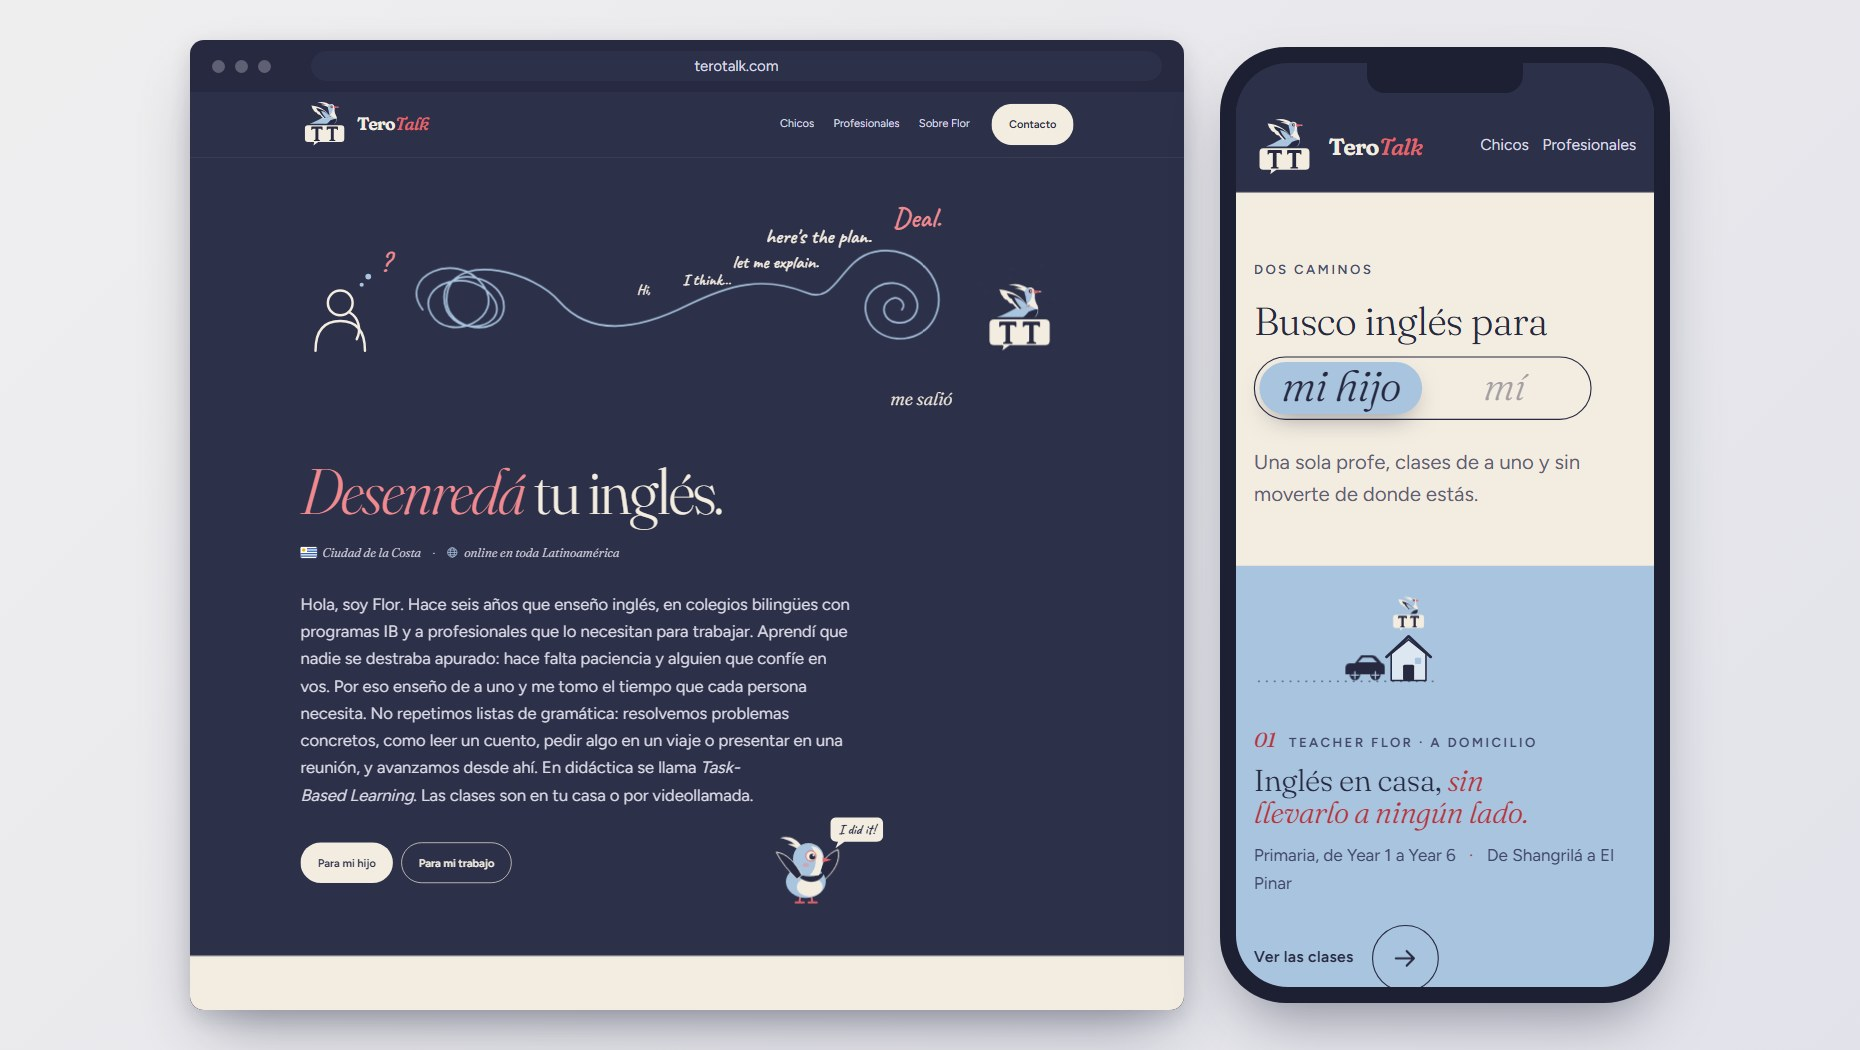
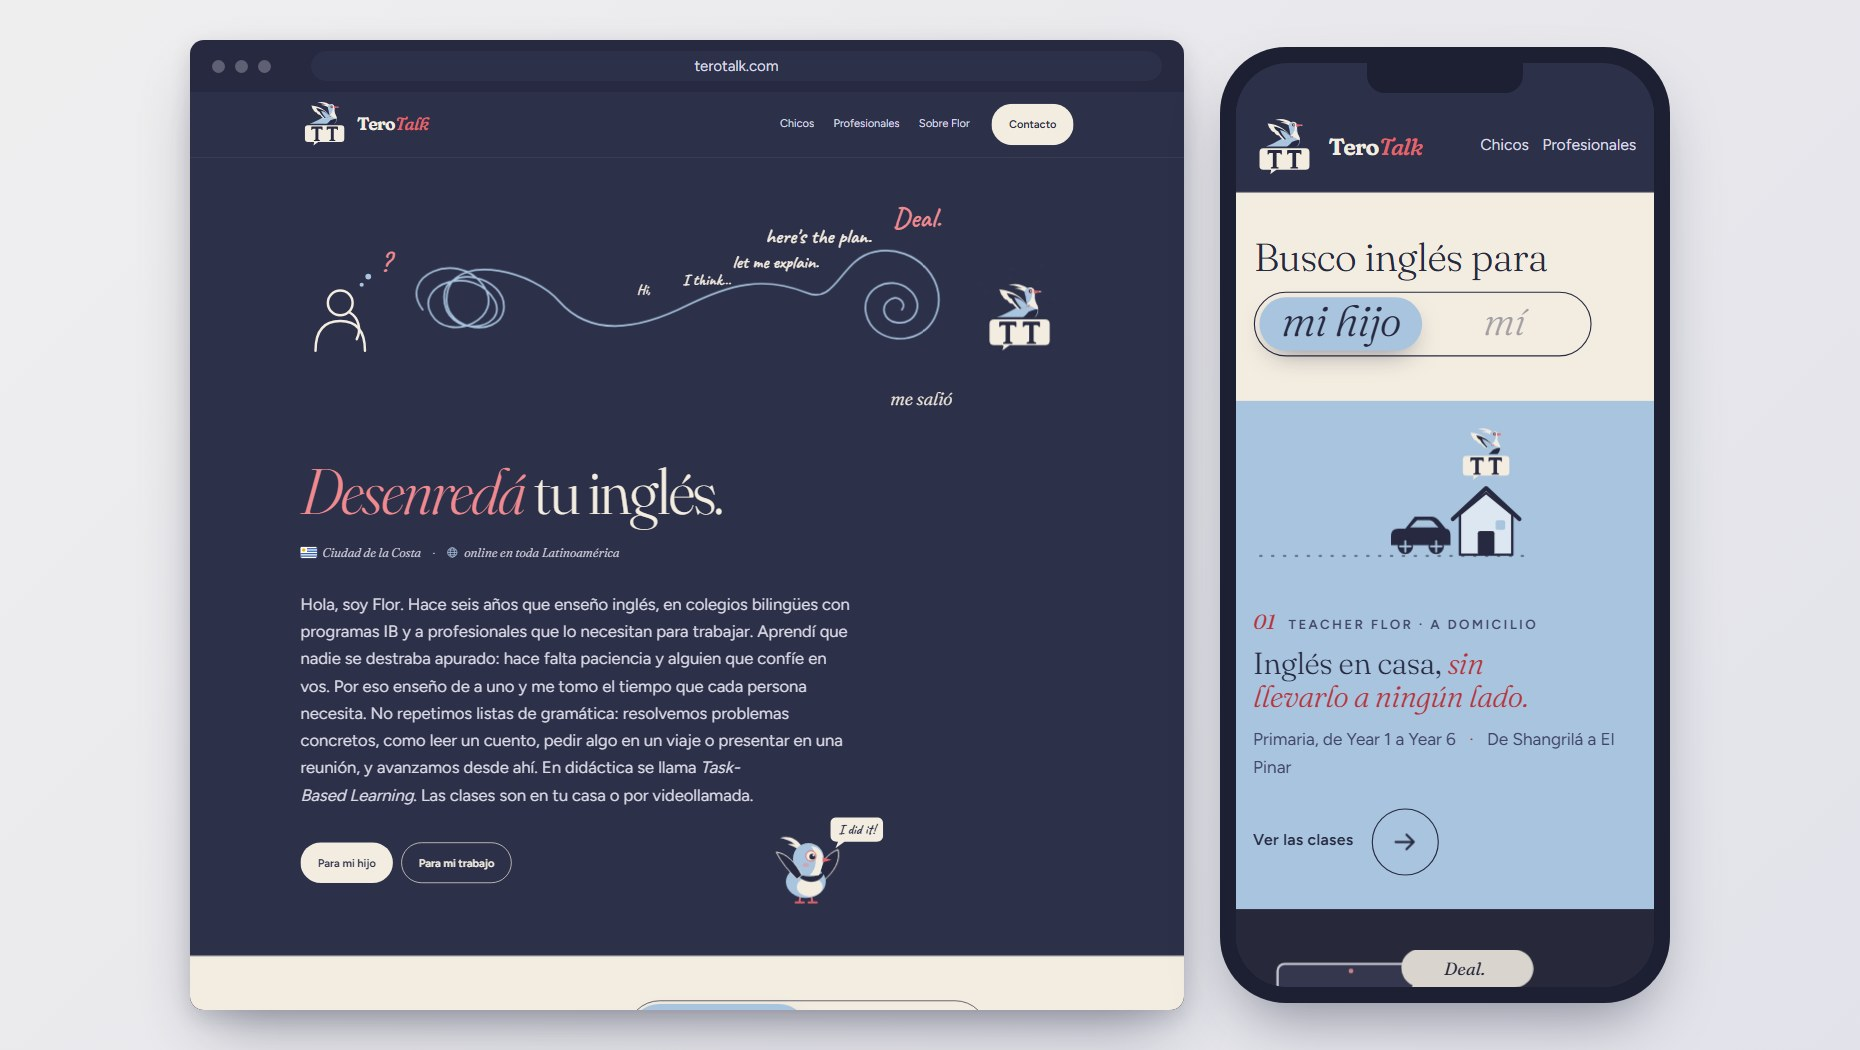
feat(home): picker drives strips, larger scenes, shorter head

diff --git a/assets/css/components.css b/assets/css/components.css
@@ -228,15 +228,14 @@
   .hero-anim__transient{display:none}
 }
 
-/* Two paths. The heading is a question the visitor answers: two pills, each in its strip's
-   colours, finish the sentence and go straight to the page. Below, one full-width strip per
+/* Two paths. The heading is a question the visitor answers: a segmented picker, each option in
+   its strip's colours, finishes the sentence and go straight to the page. Below, one full-width strip per
    service, each with a small scene on the hero's 11 s clock: Flor's car reaches the house and
    the tero lands; on the call, the bubble goes from "Hi," to "Deal." as the voice grows. */
 .paths{padding:0;border-bottom:0;background:none}
-.paths__head{padding-block:var(--space-24) var(--space-16);background:var(--color-surface)}
-.paths__ask{display:flex;flex-wrap:wrap;align-items:center;gap:var(--space-3) var(--space-5);margin-top:var(--space-4)}
+.paths__head{padding-block:var(--space-16) var(--space-12);background:var(--color-surface)}
+.paths__ask{display:flex;flex-wrap:wrap;align-items:center;gap:var(--space-3) var(--space-5)}
 .paths__title,.picker{font-size:clamp(2.2rem,5.4vw,4rem)}
-.paths__text{margin-top:var(--space-6);max-width:var(--measure);font-size:var(--text-lg);color:var(--color-text-muted)}
 
 /* Segmented picker: one option is always the active one — lit in its strip's colours and
    larger — while the other waits in grey. "mi hijo" is active at rest; hovering or focusing
@@ -247,10 +246,10 @@
 .picker__face{padding:.08em .7em .16em;text-align:center;white-space:nowrap;pointer-events:none;transition:transform .45s cubic-bezier(.2,.8,.2,1),color .3s ease,opacity .3s ease}
 .picker__option--kids .picker__face{color:var(--picker-on);transform:scale(1.1)}
 .picker__option--work .picker__face{color:var(--color-text-muted);opacity:.55}
-.picker:has(.picker__option--work:is(:hover,:focus-visible)){--picker-thumb:var(--navy-900);--picker-on:var(--sand-100)}
-.picker:has(.picker__option--work:is(:hover,:focus-visible)) .picker__thumb{transform:translateX(100%)}
-.picker:has(.picker__option--work:is(:hover,:focus-visible)) .picker__option--kids .picker__face{color:var(--color-text-muted);opacity:.55;transform:none}
-.picker:has(.picker__option--work:is(:hover,:focus-visible)) .picker__option--work .picker__face{color:var(--picker-on);opacity:1;transform:scale(1.1)}
+.paths:has(.picker__option--work:is(:hover,:focus-visible),.path--work:is(:hover,:focus-visible)) .picker{--picker-thumb:var(--navy-900);--picker-on:var(--sand-100)}
+.paths:has(.picker__option--work:is(:hover,:focus-visible),.path--work:is(:hover,:focus-visible)) .picker__thumb{transform:translateX(100%)}
+.paths:has(.picker__option--work:is(:hover,:focus-visible),.path--work:is(:hover,:focus-visible)) .picker__option--kids .picker__face{color:var(--color-text-muted);opacity:.55;transform:none}
+.paths:has(.picker__option--work:is(:hover,:focus-visible),.path--work:is(:hover,:focus-visible)) .picker__option--work .picker__face{color:var(--picker-on);opacity:1;transform:scale(1.1)}
 
 .path{position:relative;isolation:isolate;display:block;overflow:hidden;background:var(--color-surface);color:var(--color-text);--color-logo-gap:var(--color-surface)}
 .path::before{content:"";position:absolute;inset:0;z-index:-1;background:var(--color-surface-raised);clip-path:inset(0 100% 0 0);transition:clip-path .6s cubic-bezier(.2,.8,.2,1)}
@@ -262,7 +261,17 @@
 .path:focus-visible{outline-offset:-6px}
 .path--kids{--color-surface:var(--blue-300);--color-surface-raised:var(--blue-200);--color-text:var(--navy-900);--color-text-muted:var(--navy-600);--color-accent:var(--red-600);--color-brand:var(--navy-600)}
 .path--work{--color-surface:var(--navy-900);--color-surface-raised:var(--navy-700);--color-text:var(--sand-100);--color-text-muted:var(--lilac-200);--color-accent:var(--red-200);--color-on-accent:var(--navy-900);--color-brand:var(--blue-300)}
-.path__inner{display:grid;grid-template-columns:220px 1fr auto;align-items:center;gap:var(--space-12);padding-block:var(--space-8)}
+.path__inner{display:grid;grid-template-columns:330px 1fr auto;align-items:center;gap:var(--space-10);padding-block:var(--space-8)}
+/* The active path is the one the picker shows: it grows a touch and the other goes grey.
+   Hover devices only — on touch nothing hovers, and a grey strip would read as disabled. */
+@media (hover:hover){
+  .path{transition:filter .45s ease}
+  .path__inner{transition:transform .45s cubic-bezier(.2,.8,.2,1),opacity .45s ease}
+  .path--kids .path__inner,.paths:has(.picker__option--work:is(:hover,:focus-visible),.path--work:is(:hover,:focus-visible)) .path--work .path__inner{opacity:1;transform:scale(1.05)}
+  .path--work,.paths:has(.picker__option--work:is(:hover,:focus-visible),.path--work:is(:hover,:focus-visible)) .path--kids{filter:grayscale(1)}
+  .path--work .path__inner,.paths:has(.picker__option--work:is(:hover,:focus-visible),.path--work:is(:hover,:focus-visible)) .path--kids .path__inner{opacity:.55;transform:none}
+  .paths:has(.picker__option--work:is(:hover,:focus-visible),.path--work:is(:hover,:focus-visible)) .path--work{filter:none}
+}
 .path__art{width:100%;height:auto;overflow:visible;transition:transform .3s ease}
 .path:hover .path__art{transform:translateY(-3px)}
 .path__label{display:flex;align-items:baseline;gap:var(--space-3);font-size:var(--text-xs);font-weight:600;letter-spacing:var(--tracking-wide);text-transform:uppercase;color:var(--color-brand)}
@@ -321,15 +330,15 @@
 @keyframes call-deal{0%,40%{opacity:0;transform:scale(.6)}43%{opacity:1;transform:scale(1.15)}45%,88%{opacity:1;transform:none}90%,100%{opacity:0}}
 
 @media (max-width:900px){
-  .paths__head{padding-block:var(--space-18) var(--space-14)}
-  .path__inner{grid-template-columns:170px 1fr;gap:var(--space-6) var(--space-8)}
+  .paths__head{padding-block:var(--space-14) var(--space-10)}
+  .path__inner{grid-template-columns:255px 1fr;gap:var(--space-6) var(--space-8)}
   .path__go{grid-column:2;justify-self:start}
 }
 
 @media (max-width:640px){
-  .paths__head{padding-block:var(--space-16) var(--space-12)}
+  .paths__head{padding-block:var(--space-12) var(--space-10)}
   .path__inner{grid-template-columns:1fr;padding-block:var(--space-8)}
-  .path__art{width:170px}
+  .path__art{width:255px}
   .path__go-ring{width:60px;height:60px}
   .path__go{grid-column:auto}
 }

diff --git a/index.html b/index.html
@@ -92,7 +92,6 @@
 <section class="band band--soft paths" aria-labelledby="paths-title">
   <div class="paths__head">
     <div class="wrap">
-      <span class="eyebrow">Dos caminos</span>
       <div class="paths__ask">
         <h2 class="paths__title" id="paths-title">Busco inglés para</h2>
         <nav class="picker" aria-label="Para quién es el inglés">
@@ -101,7 +100,6 @@
           <a class="picker__option picker__option--work" href="professionals/"><span class="picker__face">mí</span></a>
         </nav>
       </div>
-      <p class="paths__text">Una sola profe, clases de a uno y sin moverte de donde estás.</p>
     </div>
   </div>
   <a class="path path--kids" href="kids/">

diff --git a/CLAUDE.md b/CLAUDE.md
@@ -42,7 +42,8 @@ The home page (`/`) carries the shared brand and acts as a **splitter**: it
 establishes who Flor is, then sends each visitor down one of two paths. The
 section is a sentence the visitor finishes — *Busco inglés para (mi hijo | mí)*, a segmented
 pill whose active option takes the colours of its strip — followed by one full-width strip per service: one headline,
-one line of facts, and an arrow in a ring instead of a button. No cards, no bullet lists, no
+one line of facts, a scene, and an arrow in a ring instead of a button. No eyebrow, no sub-line: the
+question is the whole head, kept short. No cards, no bullet lists, no
 pitch; the selling happens on the service page. A visitor
 should reach the right page in one click and never see the other offer's pricing or
 objections.
@@ -215,8 +216,11 @@ Base size 17px (16px under 640px), line-height 1.6, measure capped at 58–64ch.
   in `components.css`) run on the hero's 11 s clock. The picker never moves on its own — a
   selector that changes by itself reads as broken. It is a segmented control: one option is
   always active — on a thumb in its strip's colours, 10 % larger — and the other sits in grey.
-  *mi hijo* is active at rest; hovering or focusing *mí* slides the thumb across and turns it
-  navy, and the matching strip sweeps. The ring arrow nudges forward
+  *mi hijo* is active at rest; hovering or focusing *mí* (or the work strip) slides the thumb
+  across and turns it navy, and the matching strip sweeps. The picker drives the strips: the
+  active one scales its content to 105 % and the other goes grayscale at 55 % opacity. That
+  runs only under `(hover:hover)` — on touch nothing hovers and a grey strip reads as disabled.
+  The scenes sit in a 330px column (255px at 900px and 640px). The ring arrow nudges forward
   at 45 %, when the tero lands; on hover the ring fills with the accent and the arrow passes
   through and comes back. The kids scene: Flor's car drives to the house (3–38 %) and the tero lands on the roof
   at 42 %, with the hero's tero. The work scene: the call bubble says *Hi,* → *let me explain.* →
